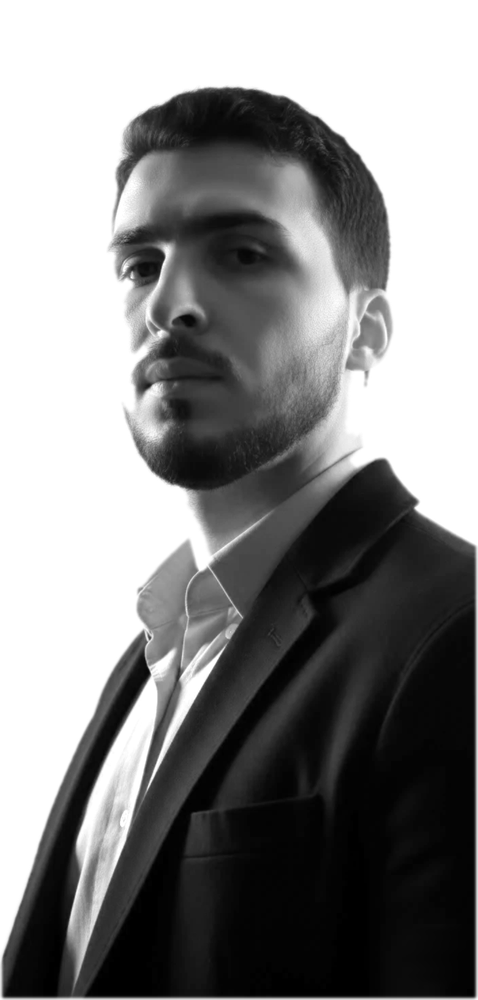
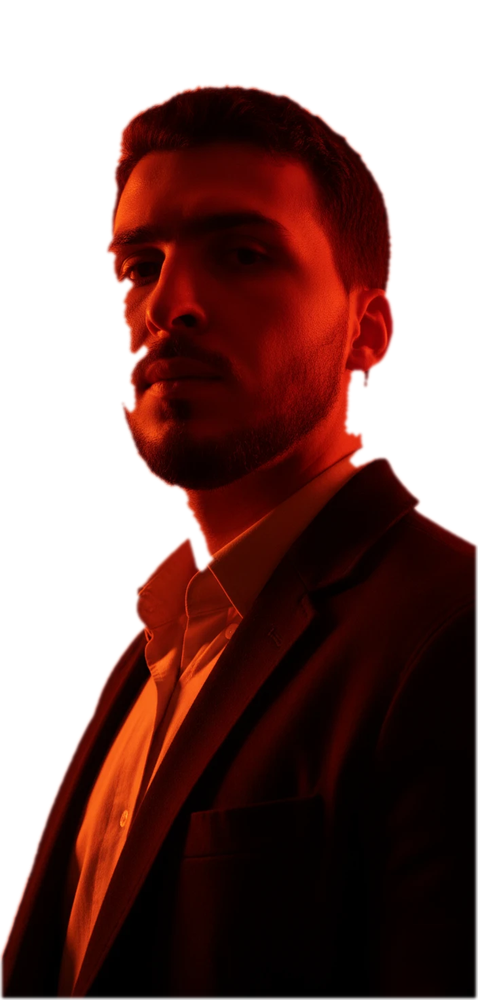
Show the hero portrait as the original colour photo
Replace the halftone canvas with the background-removed photo.

diff --git a/src/components/Sections.tsx b/src/components/Sections.tsx
@@ -15,7 +15,6 @@ import {
   Wrench,
 } from "lucide-react";
 import { liveSites, profile, ticker, type Dict } from "@/content";
-import Halftone from "./Halftone";
 import { ExperienceList, FaqList } from "./Accordion";
 
 // Cached at build time; refreshes on each deploy
@@ -68,7 +67,15 @@ export function Hero({ hero }: { hero: Dict["hero"] }) {
     <section id="top" className="relative overflow-hidden bg-ink pt-14 text-white md:pt-[70px]">
       <div className="relative min-h-[calc(100svh-3.5rem)] md:min-h-[calc(100svh-70px)]">
         <div className="absolute right-0 top-[3%] h-[52%] w-full md:inset-y-0 md:top-[3%] md:h-auto md:w-[55%]">
-          <Halftone src="/rahil-hero.png" className="h-full w-full opacity-90" spacing={5} />
+          <Image
+            src="/rahil-hero.png"
+            alt={profile.name}
+            fill
+            loading="eager"
+            fetchPriority="high"
+            sizes="(min-width: 768px) 55vw, 100vw"
+            className="object-contain object-bottom"
+          />
         </div>
 
         <h1 className="sr-only">
